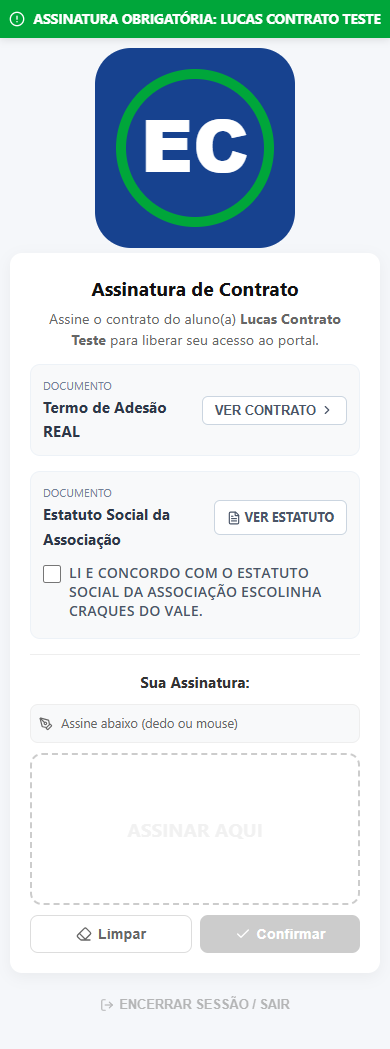
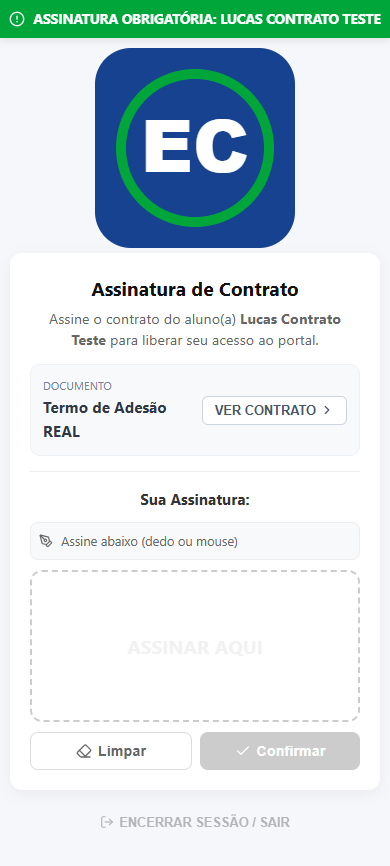
Assinatura do responsável sem exigir estatuto (sem anexo nas escolas)

diff --git a/src/pages/MandatoryContractPage.tsx b/src/pages/MandatoryContractPage.tsx
@@ -8,6 +8,9 @@ import ContractEditor from '../components/contracts/ContractEditor';
 import SignatureCanvas from '../components/SignatureCanvas';
 import { signOut } from 'firebase/auth';
 
+// Versão sem Firebase (várias escolas): não há estatuto da escola anexado, então o estatuto não é exigido para assinar o contrato.
+const EXIGE_ESTATUTO = import.meta.env.MODE !== 'sem-firebase';
+
 export default function MandatoryContractPage() {
     const navigate = useNavigate();
     const { registrationId: targetRegistrationId, studentIndex: targetStudentIndexParam } = useParams();
@@ -112,7 +115,7 @@ export default function MandatoryContractPage() {
 
     const handleSaveSignature = async (signatureDataUrl: string) => {
         if (!registrationId || !studentData) return;
-        if (!estatutoLido) {
+        if (EXIGE_ESTATUTO && !estatutoLido) {
             alert("Antes de assinar, é necessário confirmar que leu e concorda com o Estatuto Social da Associação.");
             return;
         }
@@ -228,7 +231,7 @@ export default function MandatoryContractPage() {
                             </div>
 
                             {/* Estatuto Social Box */}
-                            <div style={{
+                            {EXIGE_ESTATUTO && <div style={{
                                 background: '#f8f9fa', padding: '12px', borderRadius: '10px',
                                 border: '1px solid #edf2f7', marginBottom: '15px', textAlign: 'left'
                             }}>
@@ -271,7 +274,7 @@ export default function MandatoryContractPage() {
                                     />
                                     Li e concordo com o Estatuto Social da Associação Rumo ao Esporte e ao Lazer - REAL.
                                 </label>
-                            </div>
+                            </div>}
 
                             {/* Signature Section */}
                             <div style={{ marginTop: '15px', paddingTop: '15px', borderTop: '1px solid #eee' }}>
@@ -286,18 +289,18 @@ export default function MandatoryContractPage() {
                                         <div style={{ marginBottom: '10px', fontSize: '0.8rem', color: '#2e7d32', display: 'flex', alignItems: 'center', justifyContent: 'center', gap: '4px' }}>
                                             <CheckCircle size={14} /> Assinatura capturada!
                                         </div>
-                                        {!estatutoLido && (
+                                        {EXIGE_ESTATUTO && !estatutoLido && (
                                             <div style={{ marginBottom: '10px', fontSize: '0.8rem', color: '#e65100', textAlign: 'center' }}>
                                                 Marque a opção "Li e concordo com o Estatuto Social" para finalizar.
                                             </div>
                                         )}
                                         <button
                                             onClick={() => handleSaveSignature(capturedSignature)}
-                                            disabled={saving || !estatutoLido}
+                                            disabled={saving || (EXIGE_ESTATUTO && !estatutoLido)}
                                             style={{
-                                                background: (saving || !estatutoLido) ? '#a5c9a8' : '#2e7d32', color: '#fff', border: 'none',
+                                                background: (saving || (EXIGE_ESTATUTO && !estatutoLido)) ? '#a5c9a8' : '#2e7d32', color: '#fff', border: 'none',
                                                 padding: '12px 25px', borderRadius: '50px', fontSize: '1rem',
-                                                fontWeight: 'bold', cursor: (saving || !estatutoLido) ? 'not-allowed' : 'pointer', width: '100%',
+                                                fontWeight: 'bold', cursor: (saving || (EXIGE_ESTATUTO && !estatutoLido)) ? 'not-allowed' : 'pointer', width: '100%',
                                                 boxShadow: '0 4px 10px rgba(46, 125, 50, 0.2)'
                                             }}
                                         >
